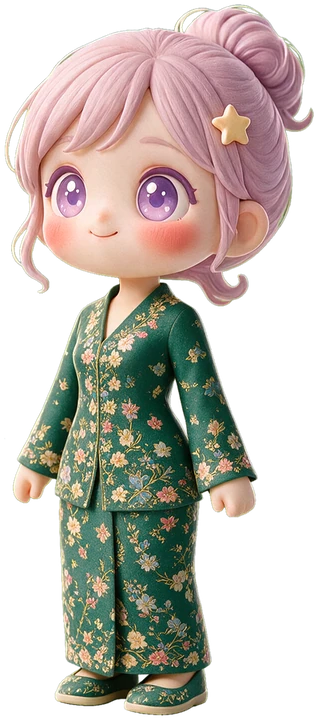
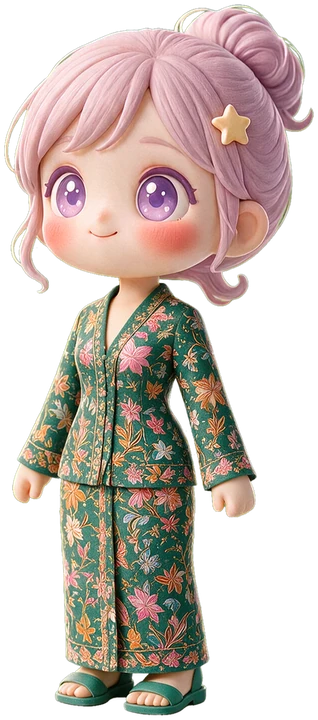
Wardrobe: faithful Singapore Girl kebaya in cobalt blue, jade green and scarlet red (Balmain batik), replaces navy pass

diff --git a/room.js b/room.js
@@ -28,8 +28,8 @@
     { id: 'cozy', name: 'Cloud hoodie', note: 'Lazy Sunday' },
     { id: 'yoga', name: 'Mint yoga set', note: 'Move gently' },
     { id: 'party', name: 'Lilac tulle', note: 'Sparkle day' },
-    /* cabin-crew sarong kebaya, rank colours: blue flight stewardess, green leading, red chief */
-    { id: 'kebaya-navy', name: 'Navy kebaya', note: 'Flight stewardess' },
+    /* Singapore Girl sarong kebaya (Balmain batik); rank colours: cobalt blue flight stewardess, green leading, red chief */
+    { id: 'kebaya-blue', name: 'Blue kebaya', note: 'Flight stewardess' },
     { id: 'kebaya-green', name: 'Green kebaya', note: 'Leading stewardess' },
     { id: 'kebaya-red', name: 'Red kebaya', note: 'Chief stewardess' }
   ];

diff --git a/STATUS.md b/STATUS.md
@@ -9,7 +9,7 @@
 - `journal.html`: Dr shares card, pattern notes, reflections, filtered timeline with daily summaries, backup, import, delete. `doctor.html`: decrypts a file or code locally, shows coverage, flags, patient questions, cycle strip, sleep chart, symptom, mood and food bars, daily summaries and raw entries, with a fictional sample preview.
 - Verified in the built-in browser at 127.0.0.1:4310: load, bed to night to wake to saved entry, backdated heavy-flow day, backdated symptoms raising the severe-pain note, diary entry, Learn screen, wardrobe and name, journal render, legacy keys populated. Doctor decrypt round trip: see the line below.
 - Decisions: jev-1.13.0 chose illustrated hotspots (1.0), soft 3D clay (0.93), lavender and blush (0.99), night mode on sleep (0.84), hop-walk (0.99) and local-first encrypted sharing (0.99); Codex independently agreed with the approach and supplied the mitigations adopted (fixed-aspect container, labelled 44px hotspots, offline matting, encrypted export as default, agents as named functions over one event store).
-- 17 October, later: three cabin-crew sarong kebaya outfits (navy, green, red, batik floral print, no logos) added to the wardrobe for the Singapore Airlines stewardess onboarding, labelled by rank per the National Archives of Singapore caption (blue flight stewardess, green leading, red chief). Same reference-guided Seedream edit from the base avatar, seed 77; raw renders, prompts and the generator scripts are backed up outside Git at `~/Doubao/chats/2026-10-16/new-chat-12/ovumind-art-src/`.
+- 17 October, later: three Singapore Girl sarong kebaya outfits added to the wardrobe for the Singapore Airlines stewardess onboarding, labelled by rank per the National Archives of Singapore caption (blue flight stewardess, green leading, red chief). First pass (dark navy, small generic florals) was rejected by Jamie as untrue to the design; the second pass names the Balmain uniform and describes the batik explicitly (bold tropical flowers in pink, orange, white and light blue with dark outlines, fitted V-neck hip-length kebaya, long sarong with front slit, matching sandals) in cobalt blue, jade green and scarlet red, which Wikipedia and the SIA press coverage give as the real colours. Same reference-guided Seedream edit from the base avatar, seed 77, no logos. Raw renders, prompts and generator scripts are backed up outside Git at `~/Doubao/chats/2026-10-16/new-chat-12/ovumind-art-src/`.
 - Not done: real accounts, server storage, LLM agent mode (needs a deployed API with authentication), clinical validation, physical-device check.
 
 ---
